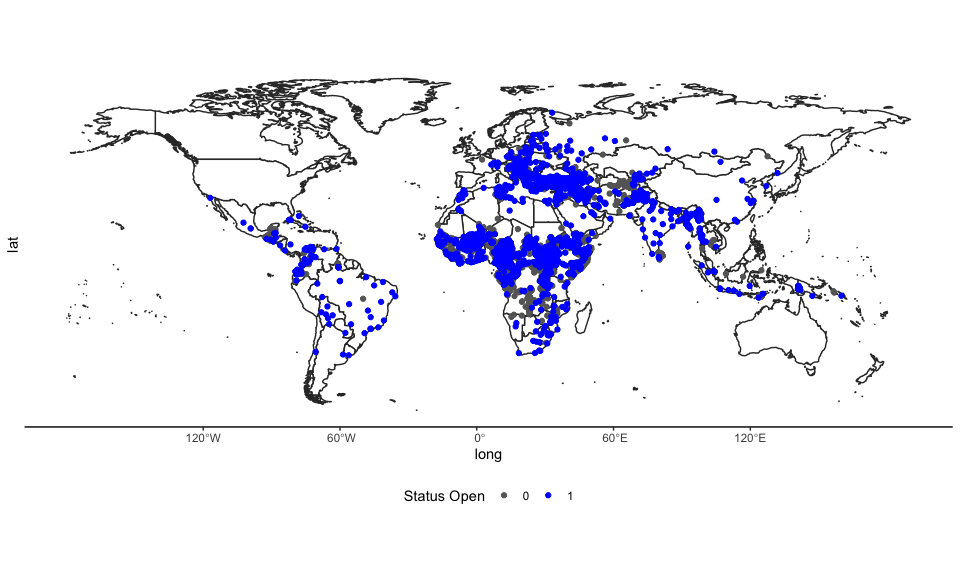
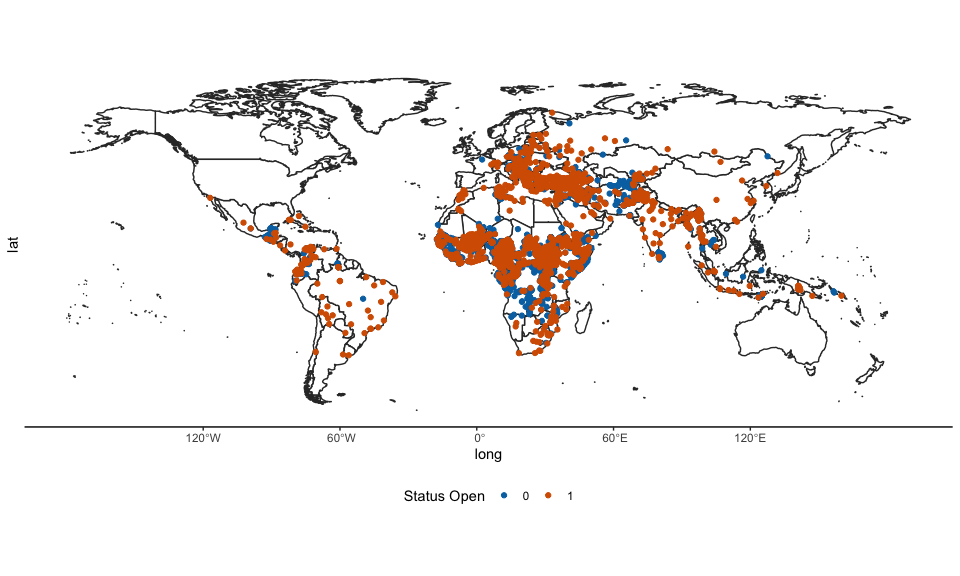
Update README

diff --git a/README.md b/README.md
@@ -58,6 +58,45 @@ Number of locations by type
 Codebook
 --------
 
+-   *pcode*: location ID
+-   *Country*: country of the location
+-   *name*: name of the location
+-   *name_alt*: alternative name of the location if one exists
+-   *loc_type*: type of location – Asylum Seeker Accommodation, Asylum
+    Seeker Centre, Asylum Seeker Location, Asylum Seeker Settlement, IDP
+    Accommodation, IDP Camp, IDP Center, IDP Dispersed, IDP Location,
+    IDP Settlement, IDP Urban location, Refugee Accommodation, Refugee
+    Camp, Refugee Center, Refugee Dispersed, Refugee Location, Refugee
+    Settlement, Refugee Urban location, Returnee Accommodation, Returnee
+    Camp, Returnee Center, Returnee Location, Returnee Settlement,
+    Unknown. Most types are self explanatory, but according to our
+    discussions with UNHCR staff, whether a location is designed as a
+    “camp” and “settlement” is generally due to host country government
+    preferences.
+-   *loc_subtype*: some locations have additional designation types –
+    Aliens Police Detention Facility, Asylum Integration Center (only
+    for recognized refugees), Border Guard/Police Detention Facility,
+    CHT (Centres d’Hebergement Temporaire / temporary reception centre),
+    Home for Separated Children Seeking Asylum, Open reception facility
+    for asylum-seekers, Open Shelters for Persons Authorized to Stay
+    (Subsidiary form of protection).
+-   *createdate*: date the location was created. Many dates are
+    1/1/Year, which suggest the exact date is unknown but it was within
+    that year.
+-   *closedate*: if the location is closed, the date of closure
+-   *updatedate*: when this data entry was updated, typically by UNHCR
+    FICSS staff
+-   *source*: source of the data
+-   *unhcr_assist*: whether UNHCR has provided assistance to the
+    location
+-   *status*: 0 if closed, 1 if open as of the updatedate
+-   *POINT_X*: longitude
+-   *POINT_Y*: latitude
+-   *adjusted_vars*: if anyone has made additional adjustments to the
+    data from the UNHCR. E.g. observations that we (Zhou and Shaver)
+    have made changes to.
+-   *type*: Asylum seeker, IDP, Returnee, Refugee, or Other
+
 Submit a correction to the data
 -------------------------------
 
